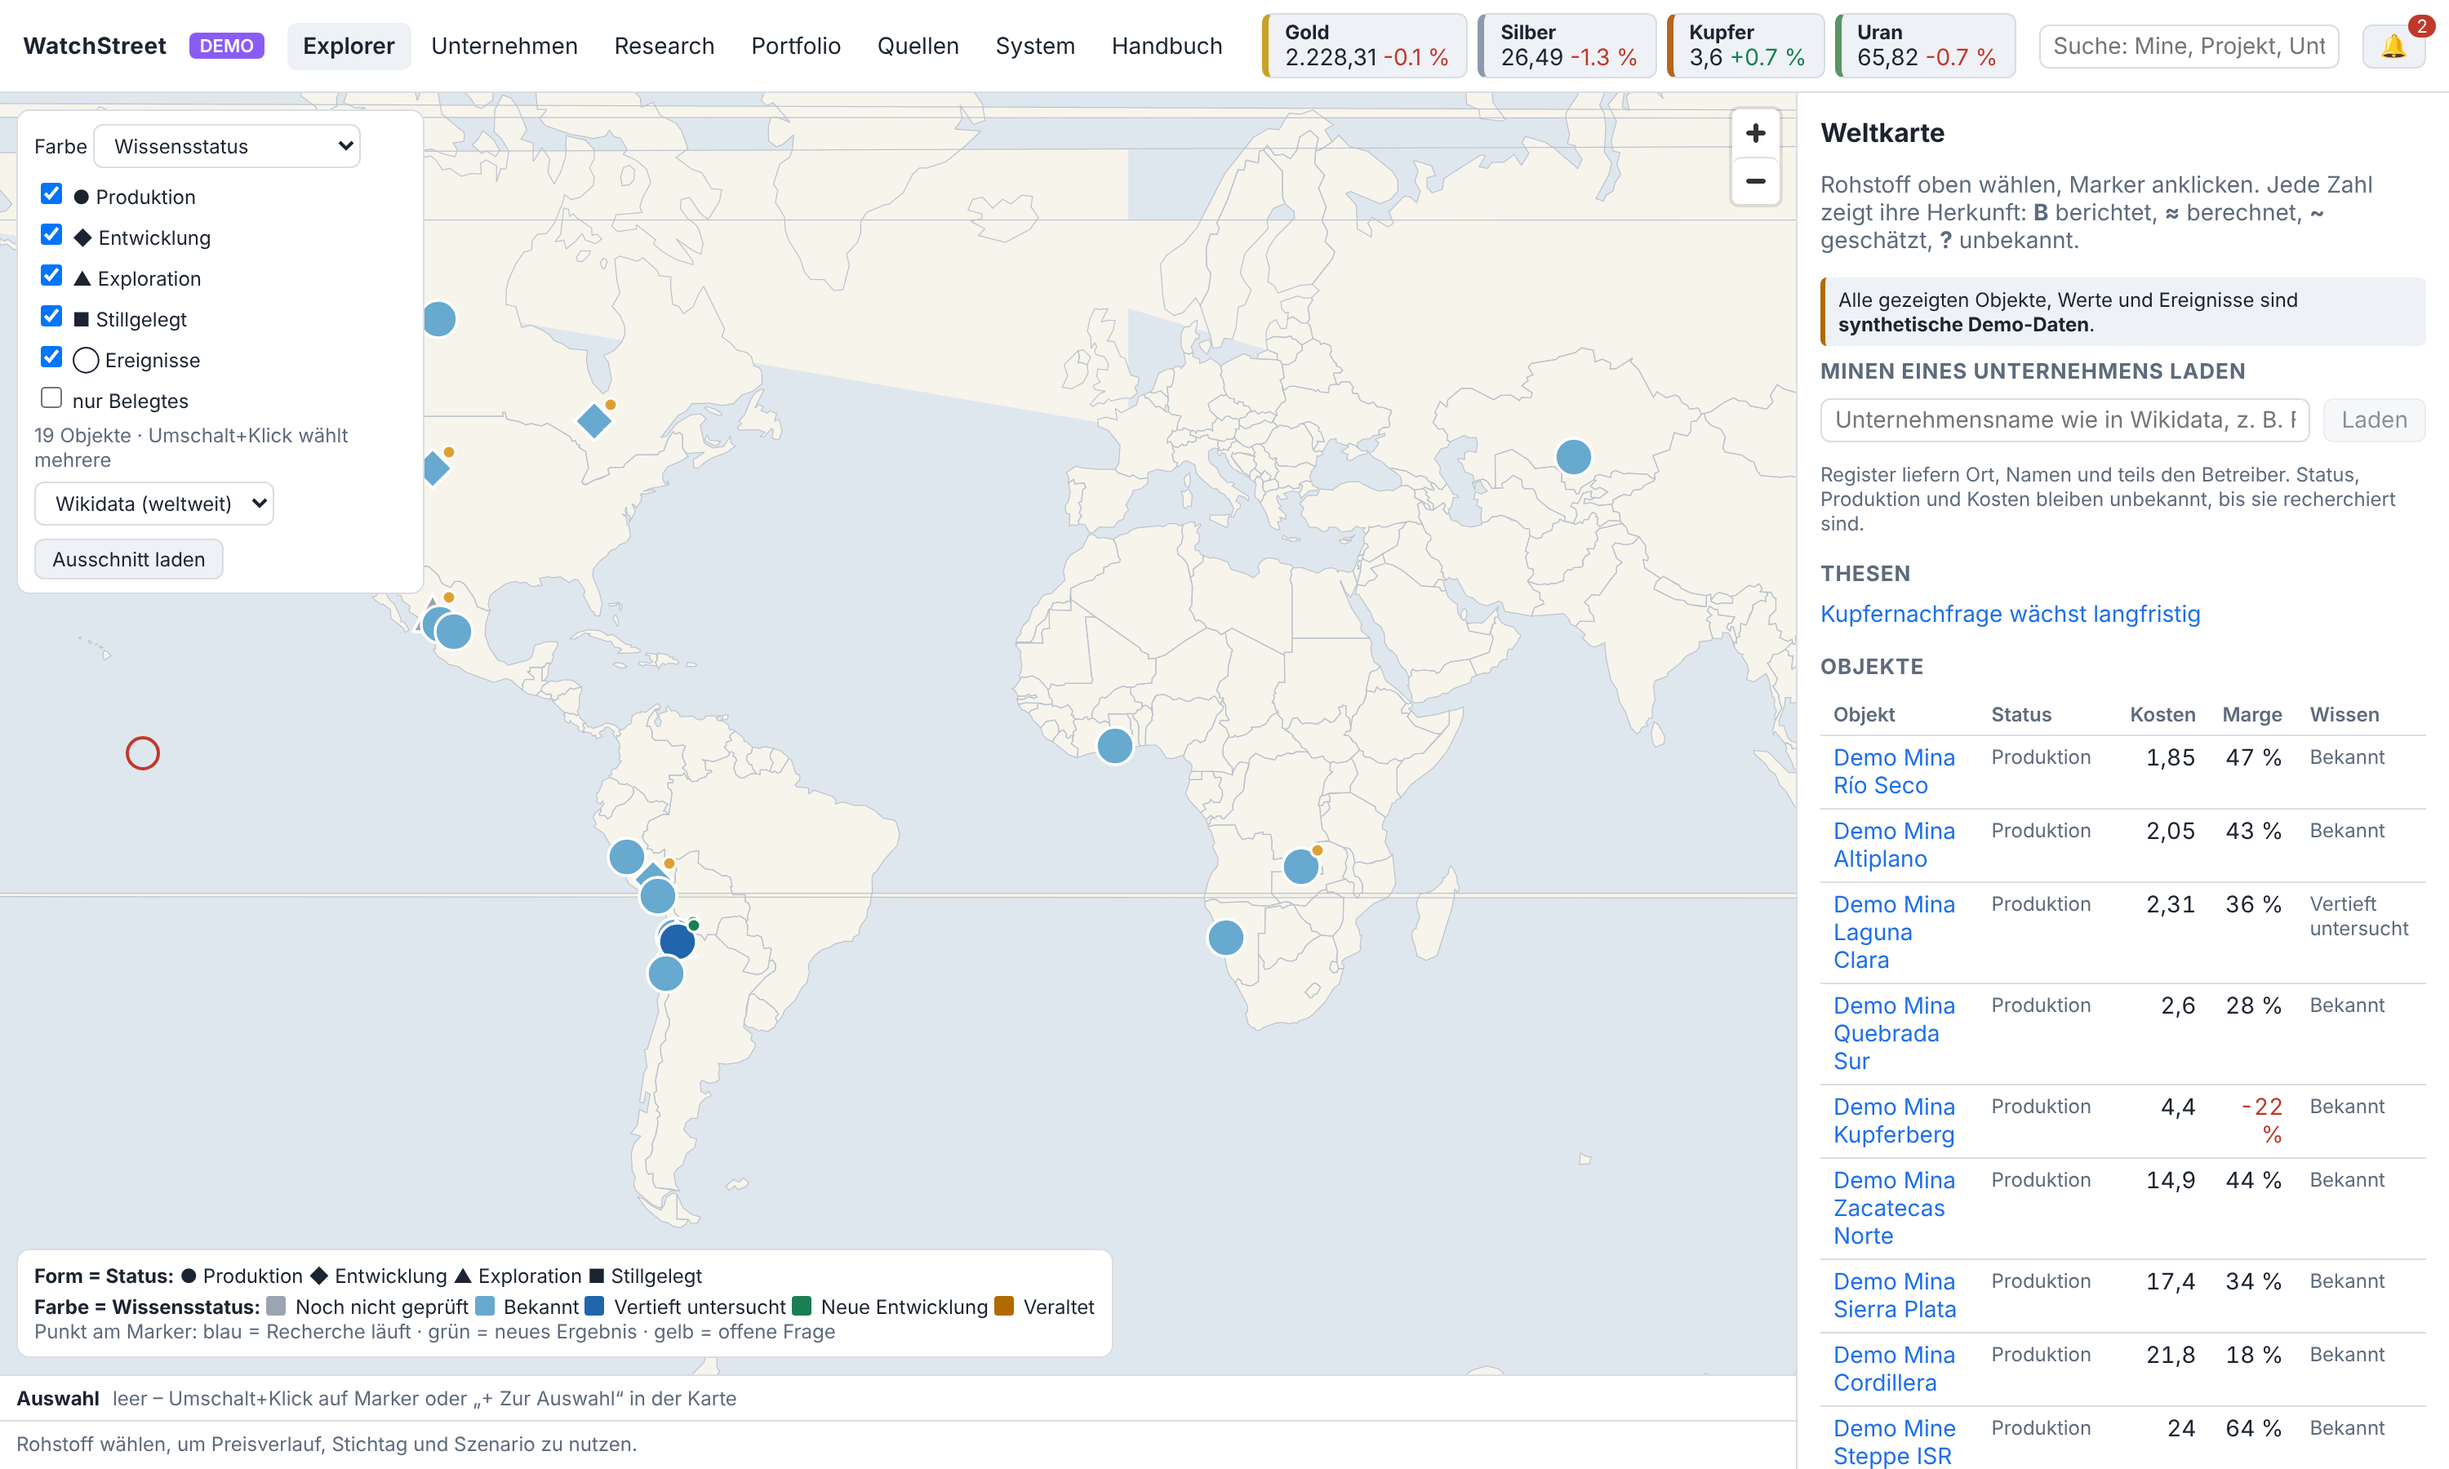
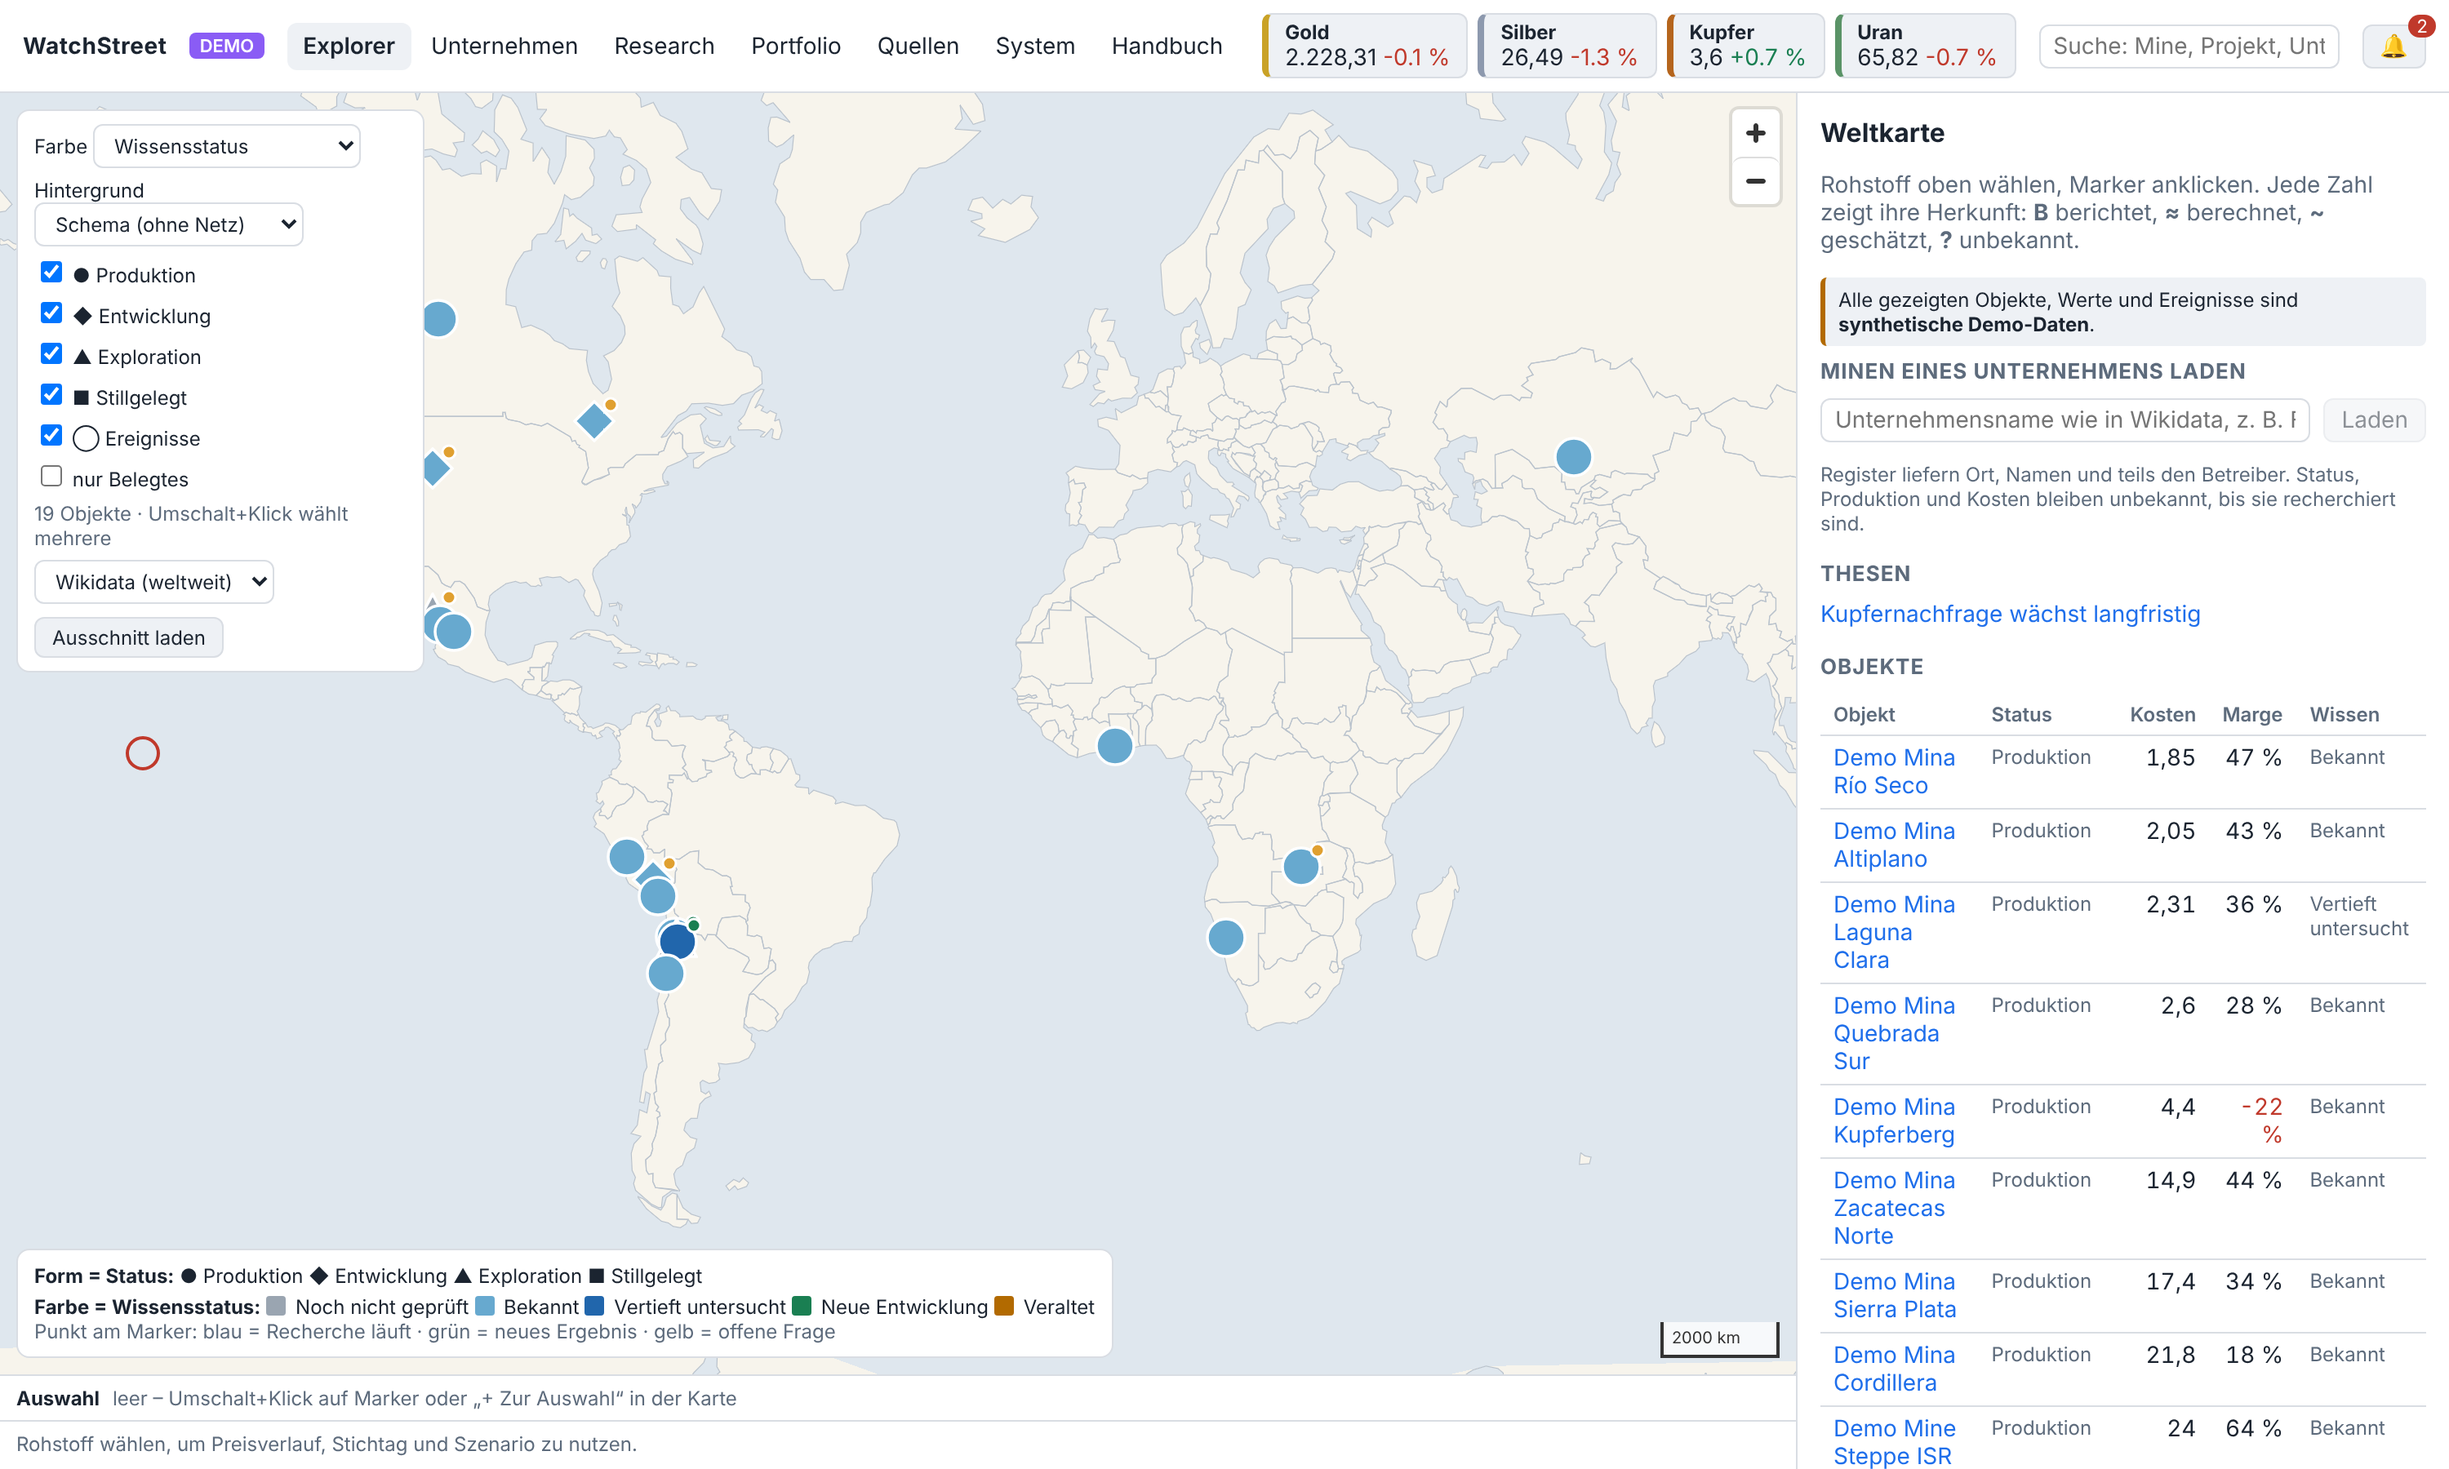
Map: real background maps with places, roads and terrain; fix date-line gaps
The explorer map can now show OpenStreetMap (places, roads) or OpenTopoMap
(contours, relief) behind the markers, with a scale bar and attribution.
The built-in country outline stays as an offline fallback; its shapes that
cross the date line no longer smear across the top of the world.

Claude-Session: https://claude.ai/code/session_01DPD6q6Wm3yEuK1UiySpCLg

Changed region(s): [[0.0, 0.1244, 0.186, 0.4667], [0.682, 0.9022, 0.713, 0.9333]]

diff --git a/frontend/src/MapView.tsx b/frontend/src/MapView.tsx
@@ -32,6 +32,24 @@ export const SCALES: Record<string, { stops: number[]; colors: string[]; percent
 const UNKNOWN = "hatch";
 const BADGES: Record<string, string> = { running: "#1f6feb", new_result: "#1a7f52", open: "#e0a030" };
 const SIZE = 26;
+const DETAIL_ZOOM = 12; // close enough to tell neighbouring deposits apart
+
+/** Background maps. Tiles come from the provider straight to the browser; "plain" needs no network. */
+export const BASEMAPS: Record<string, { label: string; tiles: string[]; maxzoom: number; attribution: string }> = {
+  streets: {
+    label: "Karte (Orte, Strassen)",
+    tiles: ["https://tile.openstreetmap.org/{z}/{x}/{y}.png"],
+    maxzoom: 19,
+    attribution: "© OpenStreetMap-Mitwirkende",
+  },
+  terrain: {
+    label: "Gelände (Höhenlinien)",
+    tiles: ["a", "b", "c"].map((host) => `https://${host}.tile.opentopomap.org/{z}/{x}/{y}.png`),
+    maxzoom: 17,
+    attribution: "Kartendaten © OpenStreetMap-Mitwirkende, SRTM · Darstellung © OpenTopoMap (CC-BY-SA)",
+  },
+  plain: { label: "Schema (ohne Netz)", tiles: [], maxzoom: 0, attribution: "" },
+};
 
 // MapLibre 6 ships its worker as a separate module; Vite bundles it and hands us the URL.
 maplibregl.setWorkerUrl(workerUrl);
@@ -113,6 +131,28 @@ function drawDot(color: string, ring = false): ImageData {
   return ctx.getImageData(0, 0, size, size);
 }
 
+const HALF_TURN = 180;
+
+/**
+ * Country shapes that cross the date line (Russia, Fiji) arrive with longitudes jumping from
+ * +180 to -180, which the renderer draws as a band across the whole world. Shifting the western
+ * part by a full turn keeps each ring continuous.
+ */
+function unwrapped(collection: Json): Json {
+  const ring = (points: number[][]) =>
+    points.some((point, i) => i > 0 && Math.abs(point[0] - points[i - 1][0]) > HALF_TURN)
+      ? points.map(([lon, lat]) => [lon < 0 ? lon + 2 * HALF_TURN : lon, lat])
+      : points;
+  const polygon = (rings: number[][][]) => rings.map(ring);
+  const features = collection.features.map((f: Json) => {
+    const g = f.geometry;
+    if (g?.type === "Polygon") return { ...f, geometry: { ...g, coordinates: polygon(g.coordinates) } };
+    if (g?.type === "MultiPolygon") return { ...f, geometry: { ...g, coordinates: g.coordinates.map(polygon) } };
+    return f;
+  });
+  return { ...collection, features };
+}
+
 interface Props {
   features: Json[];
   events: Json[];
@@ -121,6 +161,7 @@ interface Props {
   selected: number[];
   active: number | null;
   company: string;
+  basemap: string;
   focus: number[]; // asset ids to frame (e.g. those of a thesis)
   onPick: (id: number, add: boolean) => void;
   onBounds: (box: { south: number; west: number; north: number; east: number }) => void;
@@ -173,17 +214,23 @@ export function MapView(props: Props) {
       style: { version: 8, sources: {}, layers: [{ id: "sea", type: "background", paint: { "background-color": color("--sea") } }] },
       center: [-35, 8],
       zoom: 1.5,
-      attributionControl: false,
+      attributionControl: { compact: true },
       dragRotate: false,
     });
     map.current = m;
     m.addControl(new maplibregl.NavigationControl({ showCompass: false }), "top-right");
+    m.addControl(new maplibregl.ScaleControl({ unit: "metric" }), "bottom-right");
     const popup = new maplibregl.Popup({ closeButton: false, closeOnClick: false, offset: 14 });
     m.on("load", async () => {
       const topology = await (await fetch("/static/vendor/countries-110m.json")).json();
-      m.addSource("countries", { type: "geojson", data: feature(topology, topology.objects.countries) as Json });
+      m.addSource("countries", { type: "geojson", data: unwrapped(feature(topology, topology.objects.countries) as Json) });
       m.addLayer({ id: "land", type: "fill", source: "countries", paint: { "fill-color": color("--land") } });
       m.addLayer({ id: "borders", type: "line", source: "countries", paint: { "line-color": color("--border"), "line-width": 0.6 } });
+      for (const [key, base] of Object.entries(BASEMAPS)) {
+        if (base.tiles.length === 0) continue;
+        m.addSource(`base-${key}`, { type: "raster", tiles: base.tiles, tileSize: 256, maxzoom: base.maxzoom, attribution: base.attribution });
+        m.addLayer({ id: `base-${key}`, type: "raster", source: `base-${key}`, layout: { visibility: key === latest.current.basemap ? "visible" : "none" } });
+      }
       for (const [name, hex] of Object.entries(BADGES)) m.addImage(`badge-${name}`, drawDot(hex), { pixelRatio: 2 });
       m.addImage("event", drawDot("#c0392b", true), { pixelRatio: 2 });
       const empty = { type: "FeatureCollection" as const, features: [] };
@@ -238,6 +285,14 @@ export function MapView(props: Props) {
 
   useEffect(() => {
     const m = map.current;
+    if (!m || !ready.current) return;
+    for (const key of Object.keys(BASEMAPS)) {
+      if (m.getLayer(`base-${key}`)) m.setLayoutProperty(`base-${key}`, "visibility", key === props.basemap ? "visible" : "none");
+    }
+  }, [props.basemap]);
+
+  useEffect(() => {
+    const m = map.current;
     const hit = props.features.find((f) => f.id === props.active);
     if (m && hit && !m.getBounds().contains(hit.geometry.coordinates)) m.easeTo({ center: hit.geometry.coordinates });
   }, [props.active]);
@@ -247,7 +302,7 @@ export function MapView(props: Props) {
     const points = props.features.filter((f) => props.focus.includes(f.id)).map((f) => f.geometry.coordinates);
     if (!m || points.length === 0) return;
     const bounds = points.reduce((b, point) => b.extend(point), new maplibregl.LngLatBounds(points[0], points[0]));
-    m.fitBounds(bounds, { padding: 80, maxZoom: 5 });
+    m.fitBounds(bounds, { padding: 80, maxZoom: DETAIL_ZOOM });
   }, [props.focus.join(","), props.features.length]);
 
   return <div ref={node} className="map" data-testid="map" />;

diff --git a/frontend/src/Explorer.tsx b/frontend/src/Explorer.tsx
@@ -4,7 +4,7 @@ import { AssetPanel, MetricRow } from "./AssetPanel";
 import { CompanyPanel } from "./CompanyPanel";
 import type { Card, Commodity, Json } from "./api";
 import { COMMODITY_LABEL, KNOWLEDGE_LABEL, STATUS_LABEL, day, get, num, post } from "./api";
-import { KNOWLEDGE_COLORS, MapView, SCALES, SHAPES } from "./MapView";
+import { BASEMAPS, KNOWLEDGE_COLORS, MapView, SCALES, SHAPES } from "./MapView";
 import type { ViewState } from "./state";
 import { selection, viewParams } from "./state";
 
@@ -158,6 +158,13 @@ export function Explorer({ state, update, commodities, tick, refresh, notify, te
   const [world, setWorld] = useState<Json>({ features: [], events: [] });
   const [hidden, setHidden] = useState<string[]>([]);
   const [showEvents, setShowEvents] = useState(true);
+  const [basemap, setBasemap] = useState(() => {
+    try { return localStorage.getItem("basemap") ?? "streets"; } catch { return "streets"; }
+  });
+  const chooseBasemap = (key: string) => {
+    setBasemap(key);
+    try { localStorage.setItem("basemap", key); } catch { /* private window: choice lasts for this visit */ }
+  };
   const [comparing, setComparing] = useState(false);
   const [milestones, setMilestones] = useState<Json[]>([]);
   const [bounds, setBounds] = useState<Json>(null);
@@ -203,12 +210,17 @@ export function Explorer({ state, update, commodities, tick, refresh, notify, te
   return (
     <div className="explorer">
       <div className="mapwrap">
-        <MapView features={features} events={showEvents ? world.events : []} mode={mode} commodities={commodities} selected={selected} active={active}
+        <MapView features={features} events={showEvents ? world.events : []} mode={mode} commodities={commodities} selected={selected} active={active} basemap={basemap}
           company={state.co} focus={thesis ? thesis.asset_ids : []} onPick={pick} onBounds={setBounds} />
         <div className="maptools">
           <label className="small">Farbe{" "}
             <select data-testid="color-mode" value={mode} onChange={(e) => update({ color: e.target.value })}>
               {Object.entries(MODES).map(([key, label]) => <option key={key} value={key}>{label}</option>)}
+            </select>
+          </label>
+          <label className="small">Hintergrund{" "}
+            <select data-testid="basemap" value={basemap} onChange={(e) => chooseBasemap(e.target.value)}>
+              {Object.entries(BASEMAPS).map(([key, base]) => <option key={key} value={key}>{base.label}</option>)}
             </select>
           </label>
           {LAYERS.map((layer) => (

diff --git a/frontend/src/styles.css b/frontend/src/styles.css
@@ -80,7 +80,6 @@ th { color: var(--muted); font-weight: 600; font-size: 12px; } td.n { text-align
 .box { background: var(--panel); border: 1px solid var(--line); border-radius: 10px; padding: 14px; }
 .manual { max-width: 900px; } .manual img { max-width: 100%; border: 1px solid var(--line); border-radius: 6px; }
 .toast { position: fixed; bottom: 16px; left: 50%; transform: translateX(-50%); z-index: 60; background: var(--text); color: var(--panel); padding: 8px 14px; border-radius: 8px; }
-.maplibregl-ctrl-attrib { display: none; }
 
 .alert { color: var(--bad); font-weight: 600; }
 /* phone: stack everything; the side panel moves below the map, tables scroll sideways */

diff --git a/src/watchstreet/web/security.py b/src/watchstreet/web/security.py
@@ -10,16 +10,19 @@ from watchstreet.web.auth import COOKIE, Auth
 
 SAFE_METHODS = ("GET", "HEAD", "OPTIONS")
 # MapLibre needs blob: workers and injects inline styles; scripts stay strictly same-origin.
+# The background map is the one thing the browser loads from elsewhere (see frontend MapView).
+MAP_TILE_HOSTS = "https://tile.openstreetmap.org https://*.tile.opentopomap.org"
 CONTENT_SECURITY_POLICY = (
     "default-src 'self'; script-src 'self'; style-src 'self' 'unsafe-inline'; "
-    "img-src 'self' data: blob:; worker-src 'self' blob:; child-src blob:; "
-    "connect-src 'self'; frame-ancestors 'none'; base-uri 'self'; form-action 'self'"
+    f"img-src 'self' data: blob: {MAP_TILE_HOSTS}; worker-src 'self' blob:; child-src blob:; "
+    f"connect-src 'self' {MAP_TILE_HOSTS}; frame-ancestors 'none'; "
+    "base-uri 'self'; form-action 'self'"
 )
 HEADERS = {
     "Content-Security-Policy": CONTENT_SECURITY_POLICY,
     "X-Content-Type-Options": "nosniff",
     "X-Frame-Options": "DENY",
-    "Referrer-Policy": "same-origin",
+    "Referrer-Policy": "strict-origin-when-cross-origin",  # tile servers require a referer,
 }
 
 

diff --git a/docs/user-manual.md b/docs/user-manual.md
@@ -30,6 +30,12 @@ fügt ihn der Auswahl hinzu.
 
 Ein Klick auf einen Rohstoff in der Kopfzeile filtert die Karte. Ein zweiter Klick hebt den Filter auf.
 
+* **Hintergrund** (Auswahl links auf der Karte): „Karte“ zeigt Orte, Strassen und Gewässer
+  (OpenStreetMap), „Gelände“ zusätzlich Höhenlinien und Relief (OpenTopoMap, bis etwa Massstab
+  1:25 000) – gedacht für den Blick auf benachbarte Vorkommen im Umkreis weniger Kilometer. Der
+  Massstab steht unten rechts. Die Kacheln lädt dein Browser direkt beim Kartenanbieter; dieser
+  sieht dabei deine IP-Adresse und den Kartenausschnitt, aber keine Inhalte aus WatchStreet.
+  „Schema“ kommt ohne Netz aus und zeigt nur Ländergrenzen. Die Wahl merkt sich der Browser.
 * **Form** zeigt den Status: ● Produktion, ◆ Entwicklung, ▲ Exploration, ■ stillgelegt/ruhend.
 * **Farbe** zeigt den Farbmodus (Auswahl links oben): Rohstoff (neutral), Marge, Änderung im Szenario,
   Wissensstatus, Datenqualität.
@@ -429,6 +435,8 @@ vor einem Update immer sichern, denn Migrationen sind nicht in jedem Fall umkehr
 * Register liefern nur Ort, Namen und teils Betreiber. Der USGS-Abruf ist mit echten Daten geprüft; der
   Wikidata-Abruf ist gegen aufgezeichnete echte Antworten geprüft, wurde in der Entwicklungsumgebung
   aber von Wikidata abgewiesen (Bot-Richtlinie) und ist im Betrieb noch zu bestätigen.
+* Die Hintergrundkarten stammen von freien Diensten ohne Verfügbarkeitszusage und sind für
+  gelegentliche Einzelnutzung gedacht. Satellitenbilder und Konzessionsgrenzen (Claims) fehlen noch.
 * Noch nicht vorhanden: Marker-Clustering, Standortbilder, Inflations- und
   Rohstoffäquivalent-Spalten im Vergleich.
 * Die Zitatprüfung stellt sicher, dass ein Zitat wörtlich im Dokument steht, nicht, dass es die Zahl
